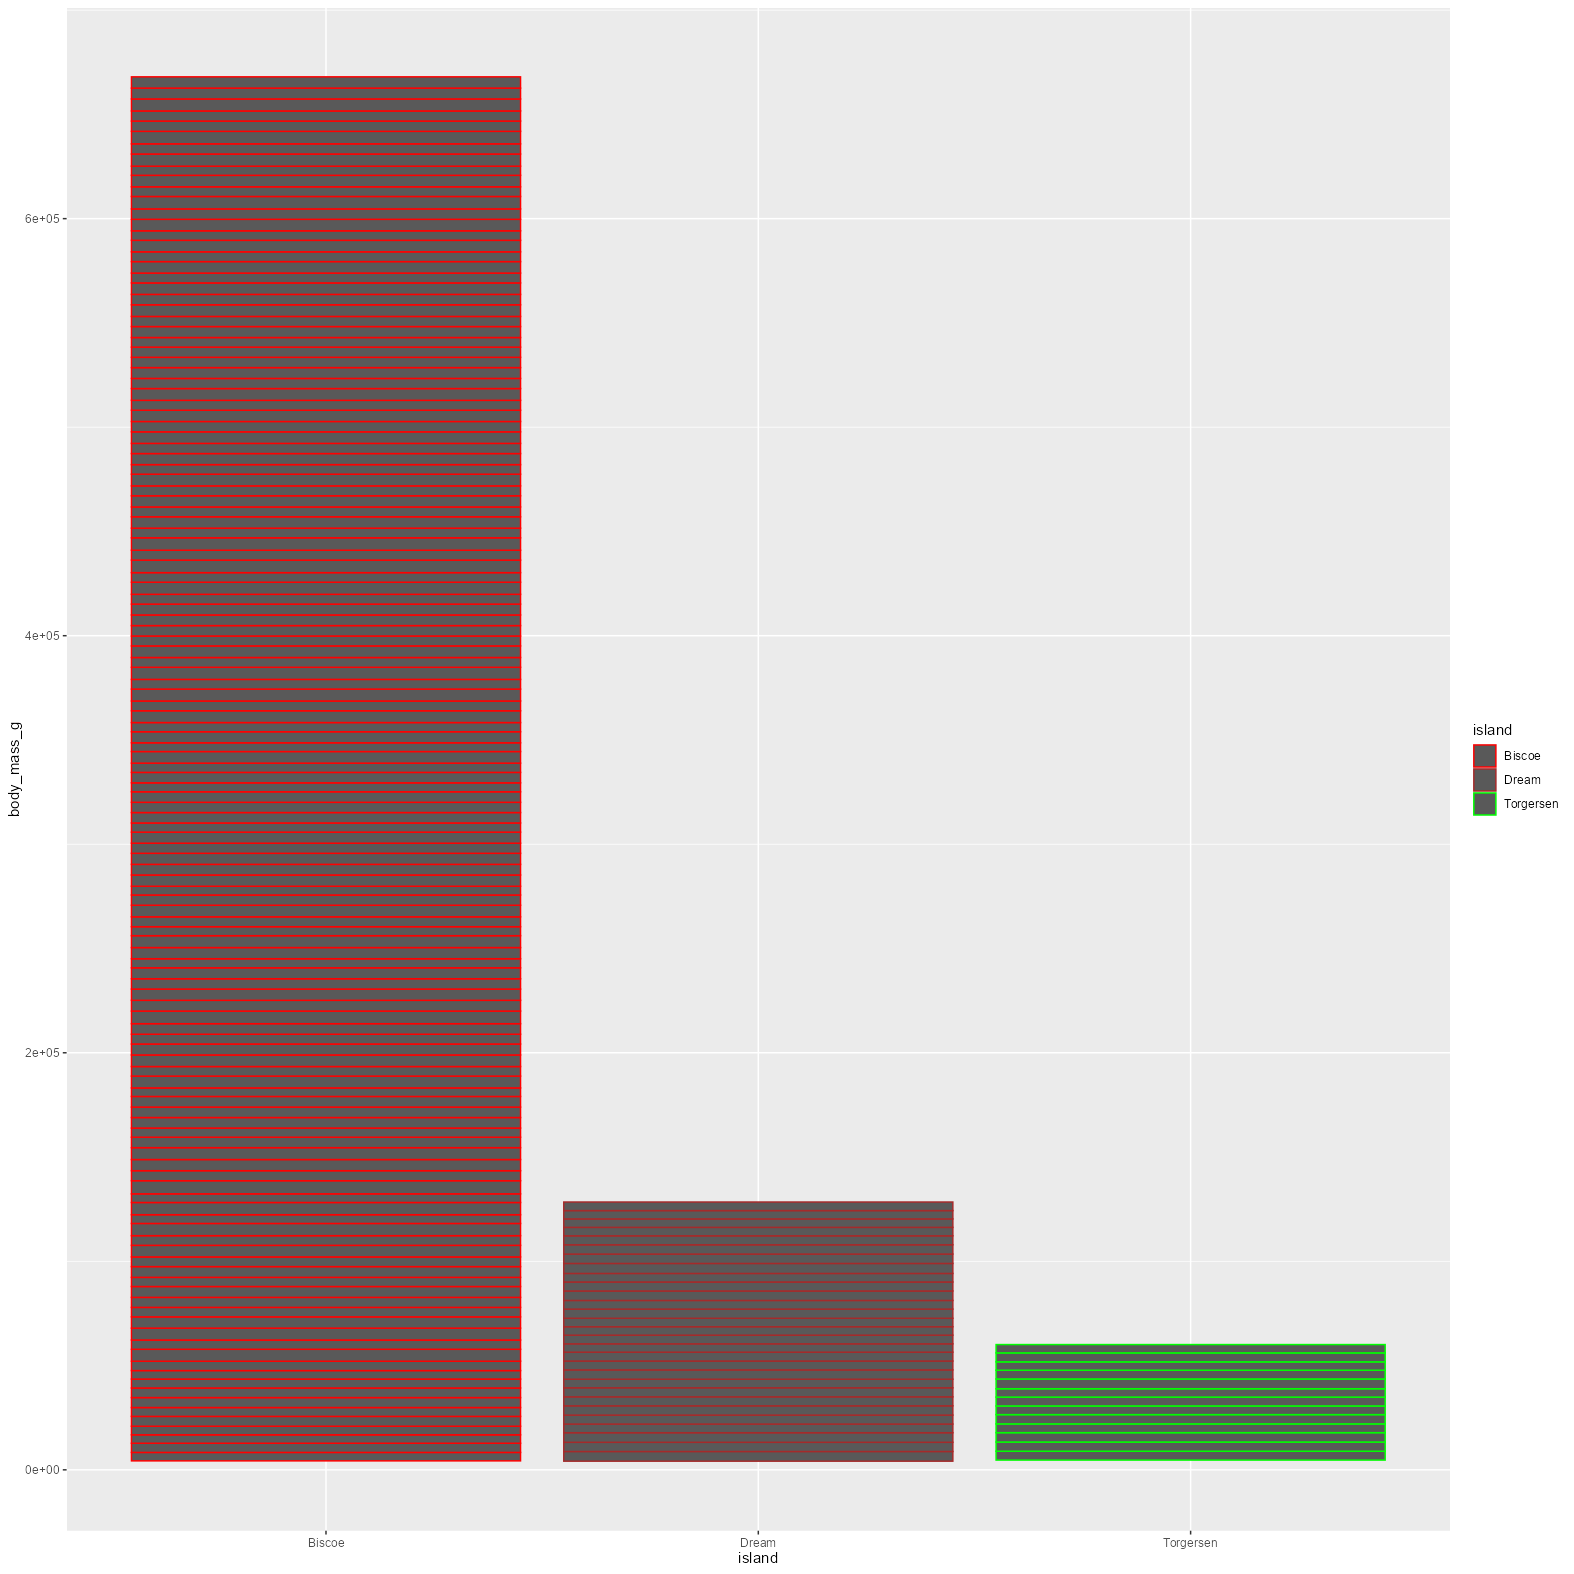
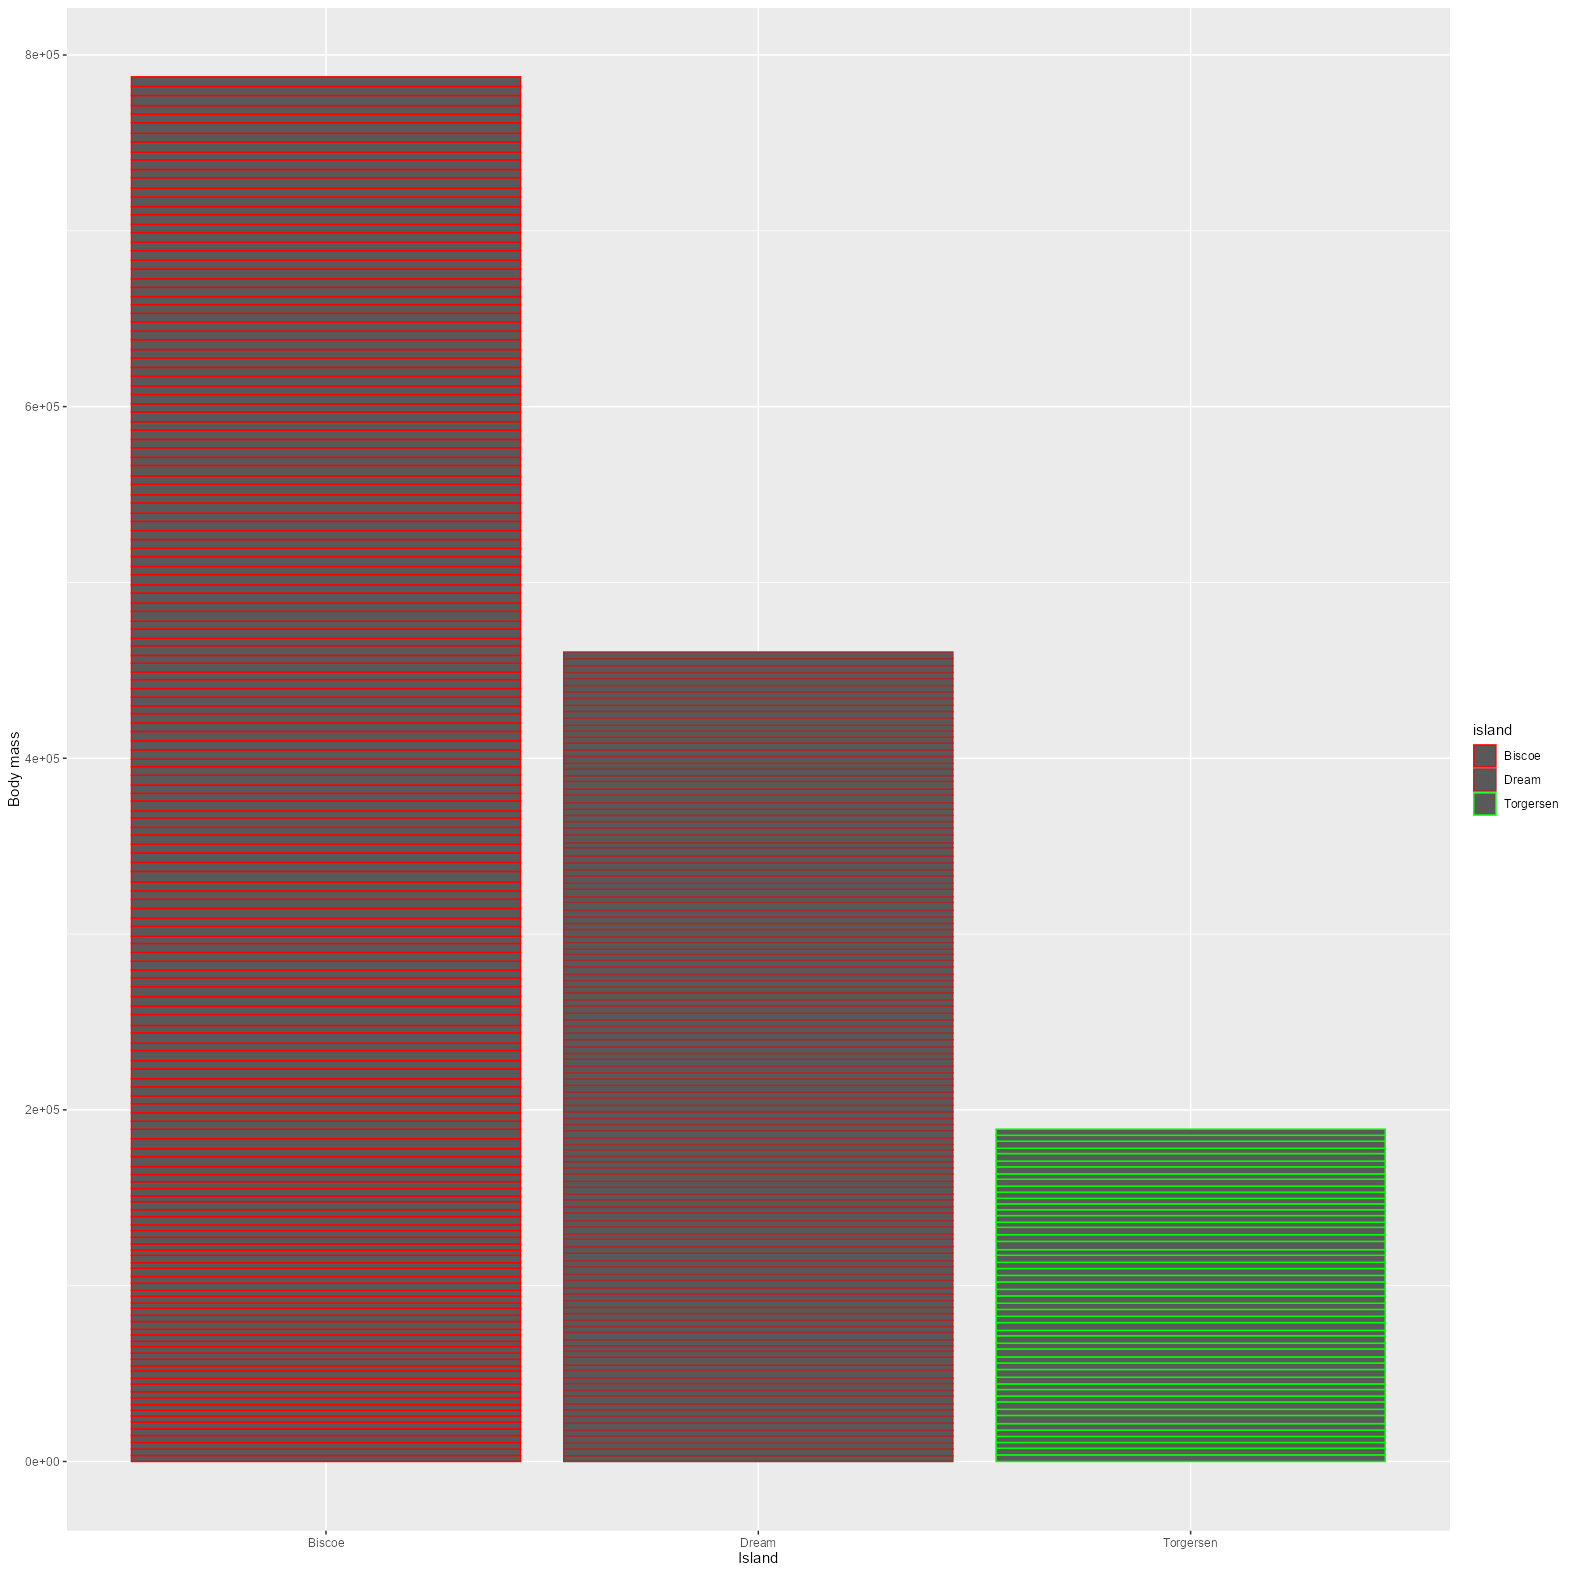
Changed introduction.

Changed region(s): [[0.0623, 0.0311, 0.9028, 0.9339], [0.0, 0.467, 0.0311, 0.4981]]

diff --git a/reproducible_figures_assignment.html b/reproducible_figures_assignment.html
@@ -517,10 +517,13 @@ penguins_data_clean &lt;- read.csv(here(&quot;data&quot;, &quot;penguins_data_cl
 <h2>a) Creating a bad figure</h2>
 <p>Create a figure using the Palmer Penguin dataset that is correct but
 badly communicates the data. Do not make a boxplot.</p>
-<pre><code>## Warning: Removed 170 rows containing missing values or values outside the scale range
+<pre><code>## &lt;ScaleContinuousPosition&gt;
+##  Range:  
+##  Limits:    0 --    1</code></pre>
+<pre><code>## Warning: Removed 2 rows containing missing values or values outside the scale range
 ## (`geom_col()`).</code></pre>
[1 lines of base64/hex data omitted]
-<pre><code>## Warning: Removed 170 rows containing missing values or values outside the scale range
[1 lines of base64/hex data omitted]
+<pre><code>## Warning: Removed 2 rows containing missing values or values outside the scale range
 ## (`geom_col()`).</code></pre>
 <pre><code>## png 
 ##   2</code></pre>
@@ -531,28 +534,28 @@ badly communicates the data. Do not make a boxplot.</p>
 underlying data (200-300 words). Include references.</p>
 <p>My graph is correct, but some design choices mislead the reader.</p>
 <p>Firstly, there is no information presented about confounding
-variables, like species. This is misleading; penguin species is likely a
+variables like species. This is misleading; penguin species is likely a
 confounding variable which impacts body mass, and the island(s)
 inhabited. This therefore may mislead a reader as the effects of
 different species are not explicitly shown, so a misleading correlation
 may be represented on my graph.</p>
+<p>The y-axis does not start from 0, but instead at 4000g, which is
+misleading as it makes differences in body mass between islands look
+bigger than they actually are.</p>
 <p>On this graph, I also only show a summary of the data, in this case
 maximum body mass in each category (i.e. on each island). This is
 misleading because important information may be hidden. For example, the
 maximum body mass for each island might be an outlier. This is also
 represented in the axis labels, which do not state maximum body mass but
-instead state only “body_mass_g”.</p>
-<p>The y-axis does not start from 0, but instead at 4000g, which is
-misleading as it makes differences in body mass between islands look
-bigger than they actually are.</p>
+instead state only “body mass”.</p>
 <p>Moreover, axis labels as specified in the .png plot are also very
 small, making it hard for a reader to understand what the graph is
 showing. Readers must look very closely at the axis labels to see the
 variables being compared. This is misleading because by not clearly
 showing your axis labels and any units associated with them, readers are
 more likely to miss key details about exactly what is being compared or
-what relationship is suggested by a graph between, which may cause them
-to believe a false correlation is present.</p>
+what relationship is suggested by a graph, which may cause them to
+believe a false correlation is present.</p>
 <p>Finally, the colour scheme used is not at all accessible, using a
 red-green colour scheme which is not colour blind friendly. This means
 it is not easy to see what each colour represents for a colour-blind
